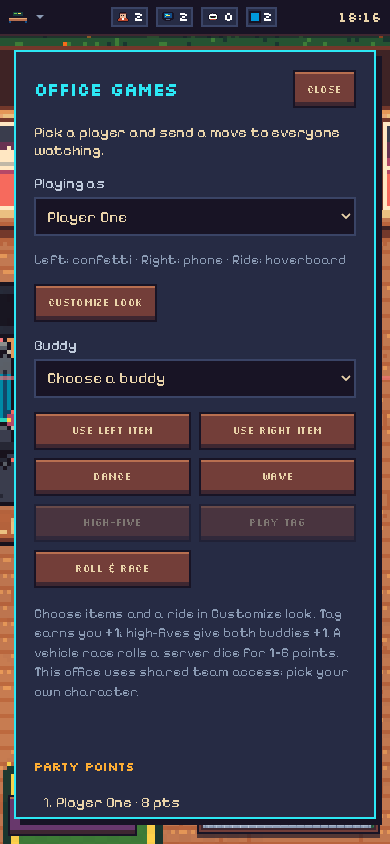
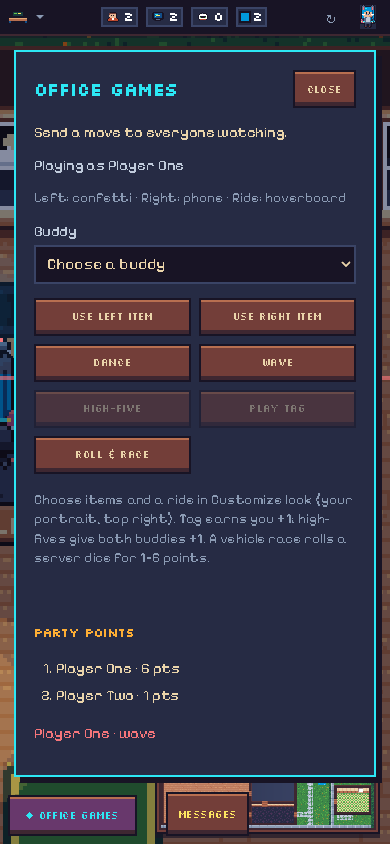
Me chip: docs, changelog and refreshed screenshots
README explains 'Who are you?' in the top bar instead of the nameplate
claim and that the games drawer plays as the confirmed person (the server
does not check moves yet). DECISIONS L10 records the one-'me' model.
party-smoke also captures the claim step, which replaces the old
16-its-me screenshot; the office-games shots no longer show 'Playing as'.

diff --git a/tools/screenshots/party-smoke.ts b/tools/screenshots/party-smoke.ts
@@ -209,6 +209,8 @@ try {
   if (refused >= 0) errors.splice(refused, 1);
   await page.locator(".claim-send").click();
   for (let i = 0; i < 50 && !macCodes.has("Player One"); i++) await pause(100);
+  await page.locator(".claim-form input").waitFor();
+  await page.screenshot({ path: `${out}/me-claim-desktop.png` });
   assert(!macCodes.has("Player Two"), "the code only goes to that person's Mac");
   const code = macCodes.get("Player One")!;
   assert(await page.locator(".claim-send").isDisabled(), "resend counts down");
@@ -240,6 +242,7 @@ try {
   await other.evaluate(() => window.__office.openPerson("player-two"));
   assert.equal(await other.locator(".hud-panel .this-is-me").count(), 1, "spectators can claim");
   await other.keyboard.press("Escape");
+  await page.keyboard.press("Escape");
   const openStudio = async () => {
     await page.locator(".me-chip").click();
     await page.getByRole("button", { name: "Customize look", exact: false }).click();

diff --git a/DECISIONS.md b/DECISIONS.md
@@ -309,3 +309,4 @@ Unbuilt ideas for the block: a kebab / Würstelstand at night, a bus stop people
 | L9  | Own look only (courtesy lock) | `PUT /api/people/:id/avatar` needs the signed `ao_me` cookie of that person (403 otherwise). A browser gets it with "It's me": `POST /api/people/:id/claim` sends a 6-digit code as a `connector.poked` message notification to that person's live Macs, a different code per connector socket (works with every connector, no update), `POST .../claim/verify {code}` sets `ao_me=<personId>.<exp>.<socketId>.<HMAC>` (365 days, key = the office password; the socket is the Mac whose code was typed, the only one L11 sends this browser's Generates to; older `<personId>.<exp>.<HMAC>` cookies stay valid, with no Mac). Codes: 5 min, single use, 5 wrong tries burn them, one per person per 30 s, at most 10 per person per day (UTC). `GET /api/me` returns `personId`; `DELETE /api/me` and logout forget it. The demo feed can edit every look. **This is a courtesy lock, not identity**: a connector's person is just the name it reports with the shared password, so a colleague can start a connector under someone else's name and receive their code. The code also only arrives if the connector may show notifications (macOS notifications on, and the connector drops a poke within 5 s of the previous one), so the UI says so and asks to resend after 30 s | Stops casually restyling colleagues from any browser. The viewer login is one shared password and says nothing about who you are; the connector is the closest thing, but it is trusted by name only. Fine for a small team office; do not rely on it for anything that matters. |
 | L10 | Describe your look in the studio | `POST /api/people/:id/look {description}` (same `ao_me` owner check as L9, 1–8000 chars, one per person per 20 s and one at a time: 429 while the last one is still drawn, by the server or a pending request on their Mac younger than 5 min; at most `GENUI_MAX_CALLS_PER_PERSON` (default 5) per person per UTC day on the server's provider, counted in the store, refused up front without a Mac, and a Mac's failed answer then keeps the look instead of falling back; Generates drawn on their own Mac do not count) makes the text the person-level description (as a connector with a new description would, M1) and always runs a GenUI job, even for the same text, waiting for the answer so the studio can show it. Only an `ai` result drops a custom look; `off` (no provider) and `failed` (error, refusal, unusable, cap) keep the current look and store the text with a `:fallback` key, so it is used once AI looks are on. `GET .../avatar` adds `aiLooks` and, for the owner only, `description` | Before, the only way to change a description was the connector config on the Mac, and with AI looks off nothing told you why your description did nothing. The text stays private to its owner, like the connector-sent one. |
 | L11 | Looks drawn on your own Mac | A connector offers `lookGenerators` (`claude` only; found in the usual install folders, else via the login shell, since launchd has a bare PATH; `look_generator = off|auto|claude`, opt-in: a missing or unknown value means off, and off for `--home` test runs) in its hello. Only a studio Generate (L10) goes to a Mac, and only to the socket signed into that browser's `ao_me` (the one whose L9 code it typed), while it is still connected under that person with a look generator; any other socket of the same name never gets it. Looks from a hello (join, new description) and Automatic (the stored description, which any hello under the name may have set) always go to the server provider. `connector.lookRequested {requestId, system, prompt, schema}` carries the server's own prompt and sanitized schema, so the catalog grows without connector releases. The connector runs `claude -p --no-session-persistence --tools "" --strict-mcp-config --settings {disableAllHooks} --json-schema` (description on stdin) in an empty temp folder, one at a time, 4 min timeout, and answers `connector.lookGenerated {requestId, avatar \| error}` (kept and resent after a reconnect). The server keeps one pending request per person in the store and takes an answer only if its requestId is that pending one **and** it arrives on the socket the request went to (the proven Mac; L9's basis: a person's look is changed only by that person's browser or Mac); from any other socket its look is dropped, and once that Mac is gone (an answer resent after a reconnect comes on a new socket) the server provider draws it at once; the answer is repaired and scored like a provider answer (`AvatarService.accept`). Error or unusable answer: the server provider tries (or the `:fallback` key keeps the look). A request unanswered for 5 min is asked again of that same socket on that person's next hello, else the server provider draws it (a reconnected Mac is a new socket, proven again with "It's me"). Local looks do not count against `GENUI_MAX_CALLS_PER_DAY` | Every developer already pays for Claude Code; a shared office API key is extra cost, extra setup for a non-ops admin, and the reason looks silently fell back to the name hash. A connector's person is only the name it says hello with (shared password), so routing by name would let a colleague's connector under your name receive your studio description, or push its own text to run on your Mac; the per-socket code ties the request to the Mac the owner's browser actually read. Opt-in (default off, set only by `configure --look-generator`, never asked for during an update or reconnect) because it spends the person's own subscription. No session file is written (the detector would otherwise show a phantom session), hooks and plugins of the person's setup do not run (one needed `node`, missing on launchd's PATH). No tools at all: the description is text a teammate can set. Codex is not offered: `codex exec` (0.166) keeps `exec`, `apply_patch`, sub-agent and MCP tools even with `--sandbox read-only`, `--ignore-user-config` and every tool feature disabled. |
+| L12 | One "me": the Me chip | The top bar shows who this browser is (`ao_me`): "Who are you?" for a spectator, otherwise portrait and name with a menu (Customize look, My desk, Forget this device). The claim step lives in that menu (a list of the people in the office, then the code), no longer on every nameplate; other people's panels offer "This is me" only to a spectator. The games drawer plays as `me` (its "Playing as" select and `agent-office.party.person` are gone) and asks a spectator to confirm first; pokes come from the confirmed name, the typed "from" stays for spectators. The code notification says "Your Agent Office code", and a wrong code tells how many tries are left. `/api/party` is still open on the server; the page is what keeps moves to yourself. Phones: the chip replaces the clock, the menu is a bottom sheet. Kiosk and `nohud`: no chip. Demo: no codes, the first person is "me" and the menu switches freely | A browser had three unrelated notions of who it is (cookie, "Playing as" defaulting to the first person, typed name), and the claim was only reachable through your own nameplate and worded as "to change this look". One confirmed "me" is what turn-based games with hidden information need next. |

diff --git a/README.md b/README.md
@@ -192,16 +192,22 @@ in the agent's colour instead. Every extra
 session is a sibling of you with tiny variations, and your pod has one desk per running
 session (at least 2, up to 6).
 
-Want a say? Click your name plate. The first time, tap **It's me: send a code**: a 6-digit
-code pops up as a notification on your Mac (via the connector, so its notifications must be
-allowed in macOS; if nothing shows up, send again after 30 s), and typing it in marks this
-browser as you. From then on **Customize look** opens a fullscreen studio: flip through hair,
+Want a say? Tell the office who you are: tap **Who are you?** in the top bar, pick your
+character and **Send a code to my Mac**. A 6-digit code pops up as a notification on your Mac
+(via the connector, so its notifications must be allowed in macOS; if nothing shows up, send
+again after 30 s), and typing it in marks this browser as you. The top bar then shows your
+portrait; its menu has **Customize look**, **My desk** and "Forget this device". A browser
+that is nobody (a guest, the kiosk) only watches and can say hi with a typed name.
+
+![Who are you?](screenshots/16-its-me-laptop.png)
+
+**Customize look** opens a fullscreen studio: flip through hair,
 face, glasses, cap, outfit (jacket, hoodie, flannel, tee), something for each hand (beer,
 coffee, phone, ...), your ride and desk items with the ◀ ▶ buttons (or the arrow keys), with a
 big live preview. You can only change your own look. This is a courtesy lock for a team
 office, not real identity: anyone with the office password could start a connector under your
-name. Saving pins it; **Automatic** goes back to the one from your description. On a shared device, "not you? forget this device" (or
-logging out) drops the claim. Outfits that are not in the agent colour carry a small agent
+name. Saving pins it; **Automatic** goes back to the one from your description. On a shared
+device, "Forget this device" in that menu (or logging out) drops the claim. Outfits that are not in the agent colour carry a small agent
 badge on the tee and a band across the back, so you can still tell Claude from Codex at the
 desk.
 
@@ -242,8 +248,9 @@ Giphy's CDN (no referrer, no cookies), so every screen showing the office contac
 are not rating-filtered: a screen that should never show them (the wall, a meeting room) adds
 `?gifs=0` to its URL, which hides every head GIF there and loads nothing from Giphy.
 
-You can also do it from the office page: click your nameplate, confirm **It's me** once (a
-code pops up on your Mac, the same step as for the look editor), then paste a Giphy link under
+You can also do it from the office page: confirm who you are once (**Who are you?** in the
+top bar; a code pops up on your Mac, the same step as for the look editor), open **My desk**
+from that menu or click your nameplate, then paste a Giphy link under
 **GIF over your head** and press **Save** (you see a preview first). **Remove** clears the GIF.
 Only your own GIF can be changed this way. A GIF set on the page sticks across connector restarts and reconnects, until
 you run `agent-office gif ...` again with a different value (or `off`). The wall/iPad
@@ -317,7 +324,7 @@ rights; clearing them loses those rights. Already queued Mac notifications canno
 
 ## Office games and extra look items
 
-Use the existing **Customize look** editor (on a person's nameplate, or from **✦ Office games**)
+Use the existing **Customize look** editor (your portrait in the top bar)
 to choose ears, costumes, neon bracelets, both hand items, accent colors and a ride. There is
 one `AvatarSpec` and one editor: saved looks keep the existing custom/automatic behavior and
 appear on every sibling session. The front, side and seated previews include the new items;
@@ -334,9 +341,10 @@ The games panel adds:
 - **Roll & race:** equip a car, skateboard, hoverboard or spaceship; a server dice roll
   moves the ride along the Office GP strip and awards 1–6 points on the shared board.
 
-The panel uses the existing office login; there is no additional password field. Like the
-look editor and pokes, this is shared team access, not individual accounts. The initial
-player is the first online person, or your last locally selected player if still online.
+The panel uses the existing office login; there is no additional password field. You play as
+the person this browser is confirmed to be (the portrait in the top bar); a browser that is
+nobody is asked "Who are you?" first. The page enforces this, the server does not check moves
+yet.
 
 **No polling:** party state joins the existing viewer WebSocket snapshot, and successful moves
 broadcast `party.updated` on that socket (including to kiosks). Opening or leaving the games

diff --git a/CHANGELOG.md b/CHANGELOG.md
@@ -5,6 +5,10 @@ heading if it isn't there yet), written for the people in the office, not for th
 section is what "What's new" in the menu shows; a new line there also brings up the "New version!"
 banner after a deploy.
 
+## 2026-11-12
+
+- 🙂 "Who are you?" in the top bar: confirm once with a code from your Mac, then your portrait sits there with Customize look and your desk; office games and pokes now go out as you
+
 ## 2026-11-11
 
 - Sharper office at every zoom: name tags and signs stay readable on wall screens and phones
